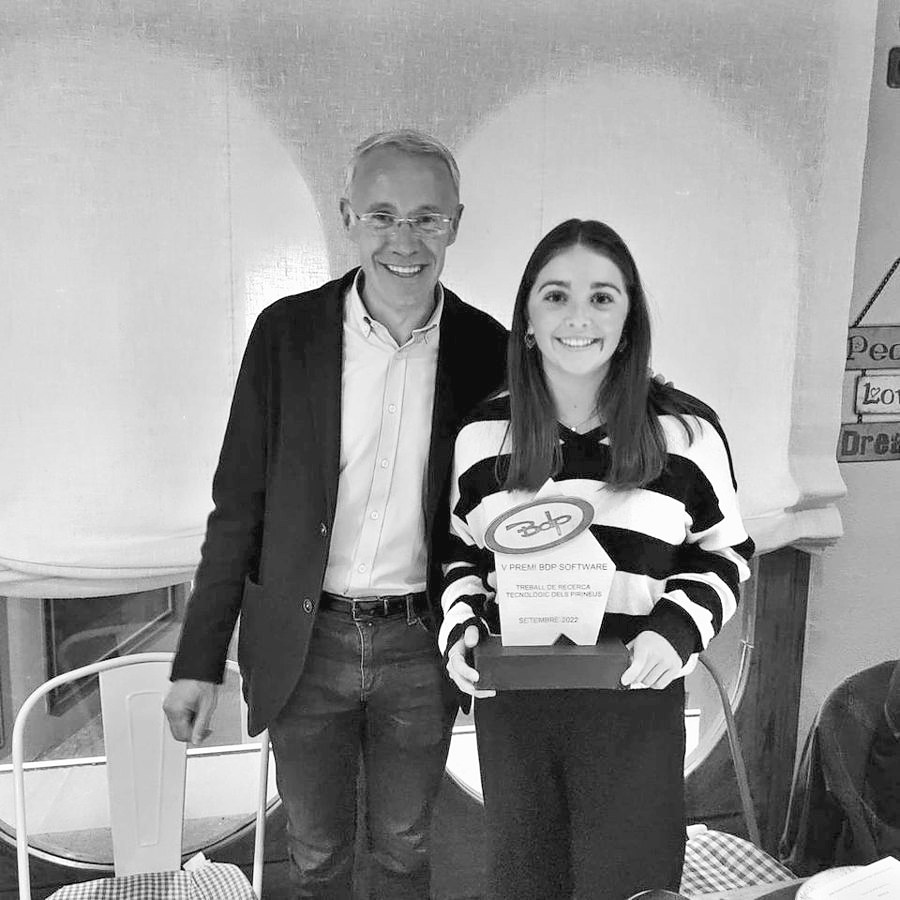
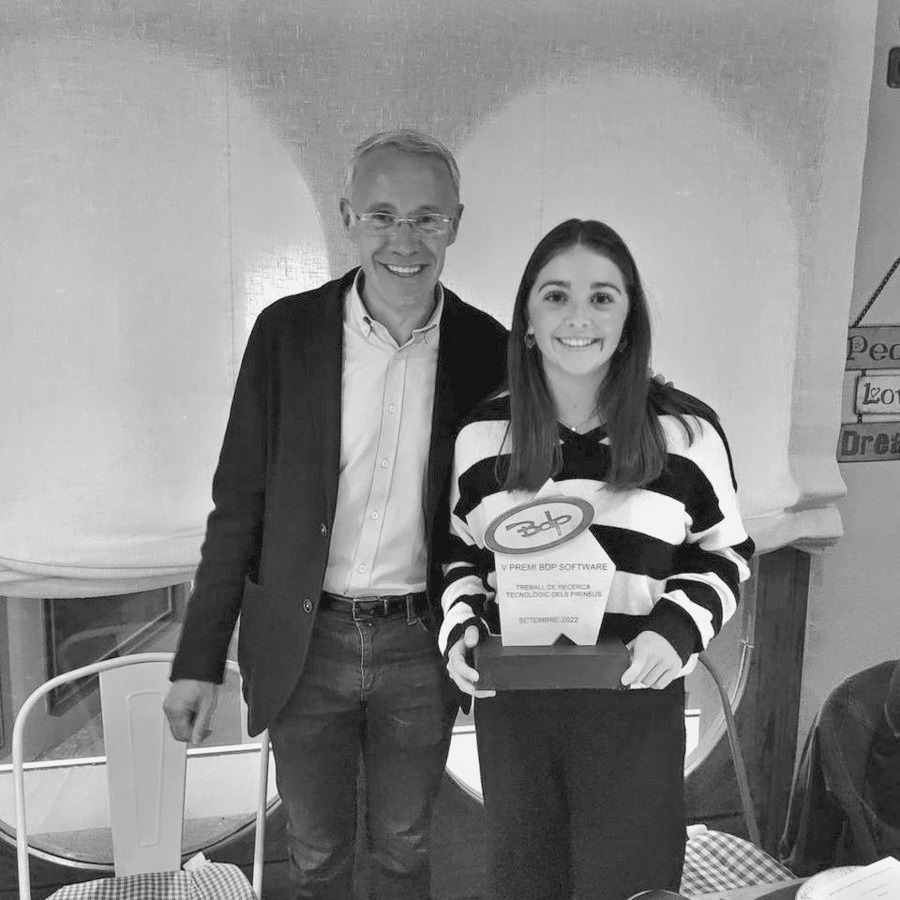
Natural black-and-white photos and the new neutral palette
Photos: red-weighted conversion for smoother skin, range #111111 to #F5F5F4
so whites keep detail, gentle per-photo midtone balance, high-quality JPEG.
Palette: #FFFFFF, #F5F5F4, #EBEBEA, #111111, #545454, #6E6E6E, #8A8A8A,
#E4E4E2, plus dark-theme tokens for later.

Claude-Session: https://claude.ai/code/session_01KKDg9R1r2MXKvgX4aWnHiN

diff --git a/styles.css b/styles.css
@@ -4,16 +4,16 @@
   /* The palette */
   --cafe: #111111;      /* black */
   --kombu: #111111;     /* black, accent */
-  --moss: #6b6b6b;      /* dark grey */
-  --tan: #a6a6a6;       /* mid grey */
-  --bone: #e0e0e0;      /* light grey */
+  --moss: #6e6e6e;      /* subtle grey */
+  --tan: #8a8a8a;       /* border grey */
+  --bone: #ebebea;      /* light grey */
   /* Roles */
-  --night: #f7f7f7;     /* off-white: page edges */
+  --night: #f5f5f4;     /* off-white: page edges */
   --deep: #ffffff;      /* page centre */
   --glass: rgba(255, 255, 255, 0.9);   /* panels, route list and tags */
-  --line: rgba(17, 17, 17, 0.13);      /* ink hairlines */
+  --line: #e4e4e2;                     /* light border grey */
   --ink: var(--cafe);                  /* text */
-  --muted: #555555;     /* graphite, darkened for readable secondary text */
+  --muted: #545454;     /* muted grey: secondary text */
   --sign: var(--kombu); /* accent: trail signs, buttons, altitudes */
   --sign-ink: var(--bone);
   --blaze: var(--kombu);
@@ -21,6 +21,10 @@
   --display: "Young Serif", Georgia, serif;
   --body: "Figtree", system-ui, -apple-system, sans-serif;
   --label: "JetBrains Mono", ui-monospace, "SFMono-Regular", Menlo, monospace;
+
+  /* Dark-theme equivalents, kept for a future dark mode */
+  --dark-bg: #0e0e0e; --dark-surface: #161616; --dark-raised: #1f1f1f; --dark-ink: #f2f2f2;
+  --dark-muted: #a8a8a8; --dark-subtle: #8c8c8c; --dark-border: #6e6e6e; --dark-line: #262626;
 
   --panel-w: 440px;
   color-scheme: light;
@@ -492,7 +496,7 @@ img.about-photo { background: #fff; }
   border-radius: 2px 2px 14px 14px / 2px 2px 10px 10px;
   background:
     linear-gradient(90deg, transparent 43%, rgba(17, 17, 17, 0.16) 43%, rgba(17, 17, 17, 0.16) 57%, transparent 57%) top / 100% 5px no-repeat,
-    linear-gradient(#f7f7f7, #e0e0e0 70%, #a6a6a6);
+    linear-gradient(#f5f5f4, #ebebea 70%, #8a8a8a);
 }
 
 /* Monitor: bezel, slim neck and foot */
@@ -506,8 +510,8 @@ img.about-photo { background: #fff; }
   height: 34px;
   margin: 0 auto;
   background:
-    linear-gradient(#a6a6a6, #e0e0e0) center bottom / 100% 6px no-repeat,
-    linear-gradient(90deg, #a6a6a6, #e0e0e0, #a6a6a6) center top / 26% 28px no-repeat;
+    linear-gradient(#8a8a8a, #ebebea) center bottom / 100% 6px no-repeat,
+    linear-gradient(90deg, #8a8a8a, #ebebea, #8a8a8a) center top / 26% 28px no-repeat;
   border-radius: 0 0 4px 4px;
 }
 
@@ -727,8 +731,8 @@ img.about-photo { background: #fff; }
 .panel[data-layout="cupra"] .chip { border-color: var(--cu); color: var(--cu-deep); background: rgba(200, 120, 58, 0.08); }
 .panel[data-layout="cupra"] .case-title .accent, .panel[data-layout="cupra"] .case-lead { color: var(--cu-deep) !important; }
 .panel[data-layout="cupra"] .case-title::after { content: "."; color: var(--cu); }
-.panel[data-layout="cupra"] .road::before { left: 8px; width: 8px; border-radius: 4px; background: repeating-linear-gradient(transparent 0 5px, #fff 5px 10px) center / 1px 100% no-repeat, #6b6b6b; }
-.panel[data-layout="cupra"] .stop::before { border-color: #6b6b6b; }
+.panel[data-layout="cupra"] .road::before { left: 8px; width: 8px; border-radius: 4px; background: repeating-linear-gradient(transparent 0 5px, #fff 5px 10px) center / 1px 100% no-repeat, #6e6e6e; }
+.panel[data-layout="cupra"] .stop::before { border-color: #6e6e6e; }
 .panel[data-layout="cupra"] .stop-title { color: var(--cu-deep); }
 .panel[data-layout="cupra"] .stop-label--challenge::before { background: var(--cu); }
 .panel[data-layout="cupra"] .stop-label--solution { color: var(--cu-deep); }
